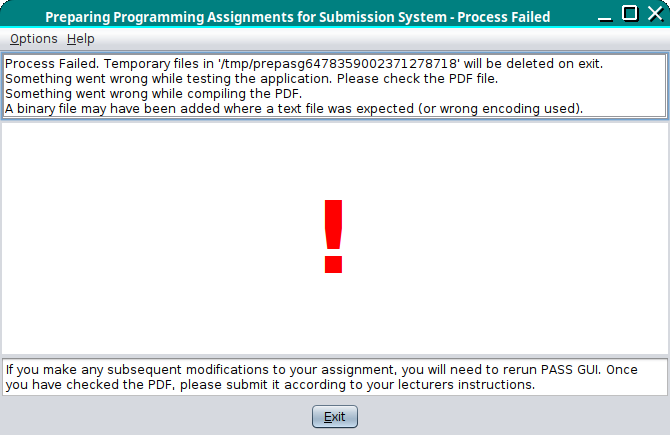
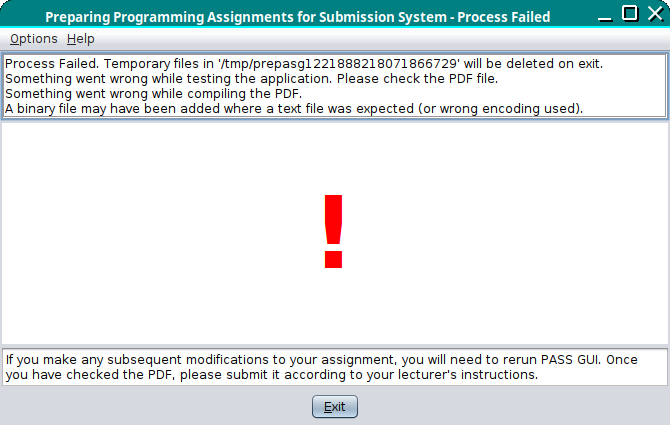
corrected typos

diff --git a/docs/passgui.md b/docs/passgui.md
@@ -27,7 +27,7 @@ example below, the course "CMP-101" has been selected.
 
 > Please select your course.  
 > (Cancel will exit this application.)  
-> CMP-101 (Introduction to Java)⏷  
+> <kbd>CMP-101 (Introduction to Java)⏷</kbd>  
 >  
 > <kbd>Cancel</kbd> <kbd>OK</kbd>
 
@@ -241,7 +241,7 @@ long will timeout.
 >  
 > <kbd>🛑</kbd> [Progress Bar] 00:02
 >  
-> If you make any subsequent modifications to your assignment, you will need to rerun PASS GUI. Once you have checked the PDF, please submit it according to your lecturers instructions.
+> If you make any subsequent modifications to your assignment, you will need to rerun PASS GUI. Once you have checked the PDF, please submit it according to your lecturer's instructions.
 
 ![Page 5 Pass GUI Progress Panel](images/pass-gui-cmp101-process-panel.png)
 
@@ -268,7 +268,7 @@ In this example, the project was processed successfully.
 >  
 > **✔**  
 >  
-> If you make any subsequent modifications to your assignment, you will need to rerun PASS GUI. Once you have checked the PDF, please submit it according to your lecturers instructions.  
+> If you make any subsequent modifications to your assignment, you will need to rerun PASS GUI. Once you have checked the PDF, please submit it according to your lecturer's instructions.  
 >  
 > --- 
 >  
@@ -303,7 +303,7 @@ to the clipboard. You can then paste it into a text editor.)
 >  
 > **!**  
 >  
-> If you make any subsequent modifications to your assignment, you will need to rerun PASS GUI. Once you have checked the PDF, please submit it according to your lecturers instructions.  
+> If you make any subsequent modifications to your assignment, you will need to rerun PASS GUI. Once you have checked the PDF, please submit it according to your lecturer's instructions.  
 >  
 > --- 
 >  
@@ -389,7 +389,7 @@ You may find it easier to view the PDF to find this information.
 The PDF should have an "Application" section with "Compiler
 Invocation" and "Compiler Messages" subsections. Make sure that your
 IDE is setup to use the same options, and make the appropriate
-corrects to your source code.  You will then need to rerun Pass GUI.
+corrections to your source code.  You will then need to rerun Pass GUI.
 
 ### Error (Invalid Binary Content)
 
@@ -420,7 +420,7 @@ stays on "Java" and Bob goes ahead and clicks on "Next".
 Now the process will fail with a `MalformedInputException` error and
 no PDF will be created.
 
-> Process Failed. Temporary files in '/tmp/prepasg6478359002371278718' will be deleted on exit.  
+> Process Failed. Temporary files in '/tmp/prepasg1221888218071866729' will be deleted on exit.  
 > Something went wrong while testing the application. Please check the PDF file.  
 > Something went wrong while compiling the PDF.  
 > A binary file may have been added where a text file was expected (or wrong encoding used).  
@@ -429,7 +429,7 @@ no PDF will be created.
 >  
 > **!**  
 >  
-> If you make any subsequent modifications to your assignment, you will need to rerun PASS GUI. Once you have checked the PDF, please submit it according to your lecturers instructions.  
+> If you make any subsequent modifications to your assignment, you will need to rerun PASS GUI. Once you have checked the PDF, please submit it according to your lecturer's instructions.  
 >  
 > --- 
 >  

diff --git a/docs/install.md b/docs/install.md
@@ -20,6 +20,11 @@ be copied to the appropriate device:
     with another appropriate script. The device will need
     Java and TeX installed, see [`README.md`](README.md).
 
+  Pass CLI can also be installed alongside Pass GUI as an
+  alternative to the graphical interface in the event that there
+  are any students who find a command line interface more
+  accessible.
+
   - `pass-cli-server.tgz`: this should be unpacked on the server
     that will be used for Server Pass. It then needs to be
     incorporated into a Docker image. See the [Server Pass](server-pass)

diff --git a/docs/assignmentxml.md b/docs/assignmentxml.md
@@ -332,7 +332,7 @@ For example, for a C project that must conform to ANSI standards:
 Use one `compiler-arg` element per argument. For example, for a Java
 project that needs to be compatible with Java 8:
 ```xml
-<compiler-arg>-release</compiler-arg>
+<compiler-arg>--release</compiler-arg>
 <compiler-arg>8</compiler-arg>
 ```
 
